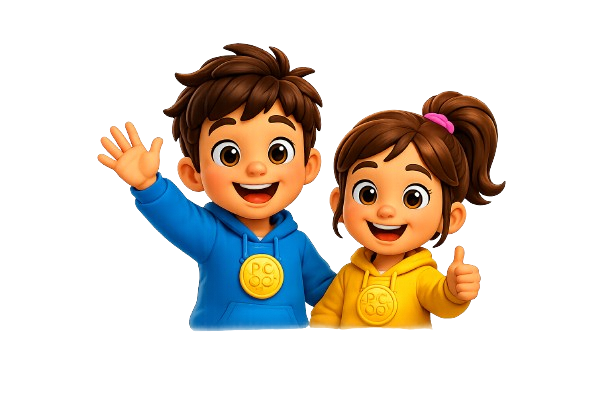
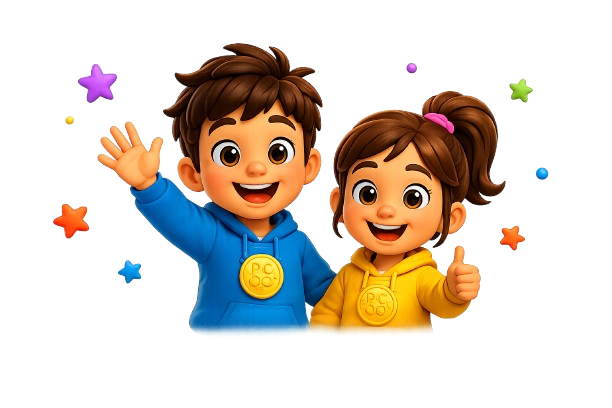
Improve app visuals and graphics

diff --git a/app/page.tsx b/app/page.tsx
@@ -2764,8 +2764,12 @@ bg: "bg-purple-50",
               </button>
             </div>
 
-            <div className="rounded-[1.5rem] sm:rounded-[2rem] sm:rounded-[2.5rem] border-2 border-white bg-white/90 p-6 shadow-[0_24px_70px_rgba(37,99,235,.16)] backdrop-blur-xl">
-              <div className="text-center text-7xl">👨👩👧</div>
+              <div className="flex justify-center">
+  <img
+    src="/Elternbild.png"
+    alt="Bild"
+    className="h-36 w-36 animate-floaty"
+  />
               <h2 className="mt-4 text-center text-4xl font-black text-sky-950">Elternbereich</h2>
               <p className="mt-2 text-center font-bold text-sky-800">Aufgaben, Belohnungen, Kinder, Statistik und Bestätigungen verwalten.</p>
               <div className="mt-6 grid gap-3">
